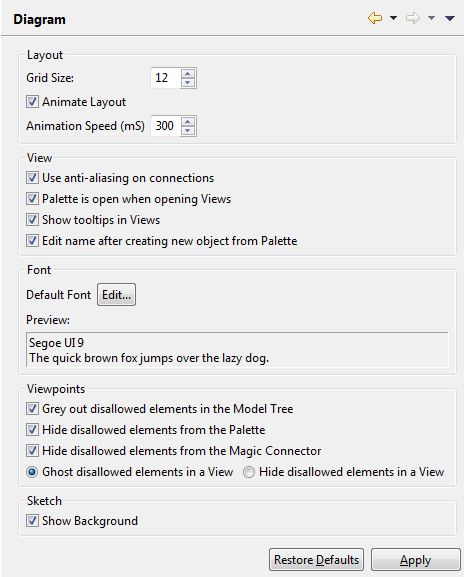
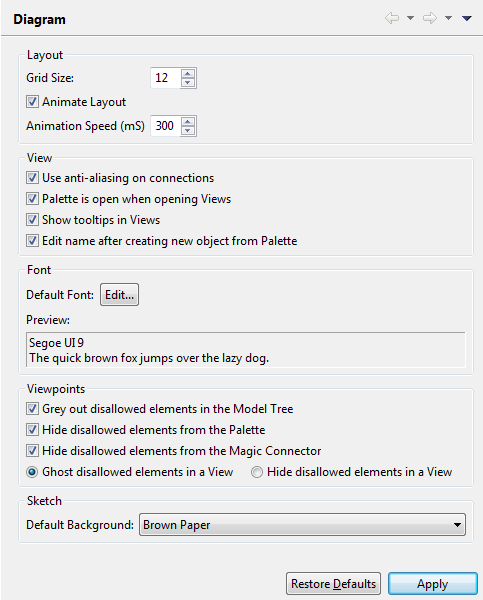
Update Help for new Sketch View feature

diff --git a/uk.ac.bolton.archimate.help/help/sketch_view.html b/uk.ac.bolton.archimate.help/help/sketch_view.html
@@ -26,7 +26,7 @@ Adding a new &quot;Sketch&quot; View</p>
 An example Sketch View</p>
 <p>You can add new &quot;Stickies&quot; (Post-Its) to the View, an  &quot;Actor&quot; figure and three types of connection. There are no rules as to  what the relationships or stickies mean. All elements can be edited in the  Properties Window. You are free to capture a sketch of your model and then later convert it into a fully constrained ArchiMate model and View.</p>
 <p>Double-clicking a Sticky opens the <a href="properties_window.html">Properties Window</a>, clicking on a  selected Sticky allows you to directly edit the Sticky's text.</p>
-<p>It is possible to remove the background paper effect in  <a href="prefs_diagram.html">Preferences</a> if you wish.</p>
+<p>It is possible to set the default background  image in  <a href="prefs_diagram.html">Preferences</a> if you wish, and also to set it the background for each Sketch view in the &quot;Appearance&quot; tab of the <a href="properties_window.html">Properties Window</a>.</p>
 <p>Later versions of this feature will allow you to:</p>
 <ul type="disc">
   <li>Transform the Sketch into a full ArchiMate View by means of parameters and queries</li>

diff --git a/uk.ac.bolton.archimate.help/help/prefs_diagram.html b/uk.ac.bolton.archimate.help/help/prefs_diagram.html
@@ -6,7 +6,7 @@
 
 <body>
 <h1>Diagram Preferences</h1>
-<p class="caption"><img src="img/prefs_diagram.png" width="464" height="577"><br>
+<p class="caption"><img src="img/prefs_diagram.png" width="483" height="600"><br>
 Diagram Preferences</p>
 <p>&nbsp;</p>
 <h2>Layout</h2>
@@ -46,8 +46,8 @@ When this option is set any elements that are disallowed in a Viewpoint are not 
   Toggling these options either ghosts or hides disallowed elements in a Viewpoint. For more information see <a href="viewpoints.html">Viewpoints</a>.</p>
 <p></p>
 <h3>Sketch</h3>
-<p><strong>Show Background</strong><br>
-Show or hide the background in the Sketch View.</p>
+<p><strong>Default Background</strong><br>
+Set the default background for newly created Sketch Views.</p>
 <p>&nbsp;</p>
 </body>
 </html>

diff --git a/uk.ac.bolton.archimate.help/help/properties_user_properties.html b/uk.ac.bolton.archimate.help/help/properties_user_properties.html
@@ -14,7 +14,7 @@
   User Properties</p>
 <p><strong>To Add a New User Property entry:</strong></p>
 <ol>
-  <li>Click on the &quot;New&quot; toolbar button to the right of the Properties table, or select &quot;New&quot; from the right-click menu</li>
+  <li>Click on the &quot;New&quot; toolbar button to the right of the Properties table, or select &quot;New&quot; from the right-click menu, or double-click in an empty area on the table</li>
   <li>Edit the Property's Name in the table cell. If there are existing Properties used elsewhere in the Model you can select one of these instead from the combo box in the cell editor<br>
     <br>
     <img src="img/properties_user2.png" width="376" height="239"><br>

diff --git a/uk.ac.bolton.archimate.help/help/front.html b/uk.ac.bolton.archimate.help/help/front.html
@@ -9,7 +9,7 @@
 <h1>Archi - ArchiMate Modelling</h1>
 <p><img src="img/splash.png" width="399" height="210"></p>
 <p class="font14"><strong>User Guide</strong></p>
-<p class="font12"><strong>Version 2.2.3</strong></p>
+<p class="font12"><strong>Version 2.3</strong></p>
 <p>&nbsp;</p>
 </body>
 </html>
